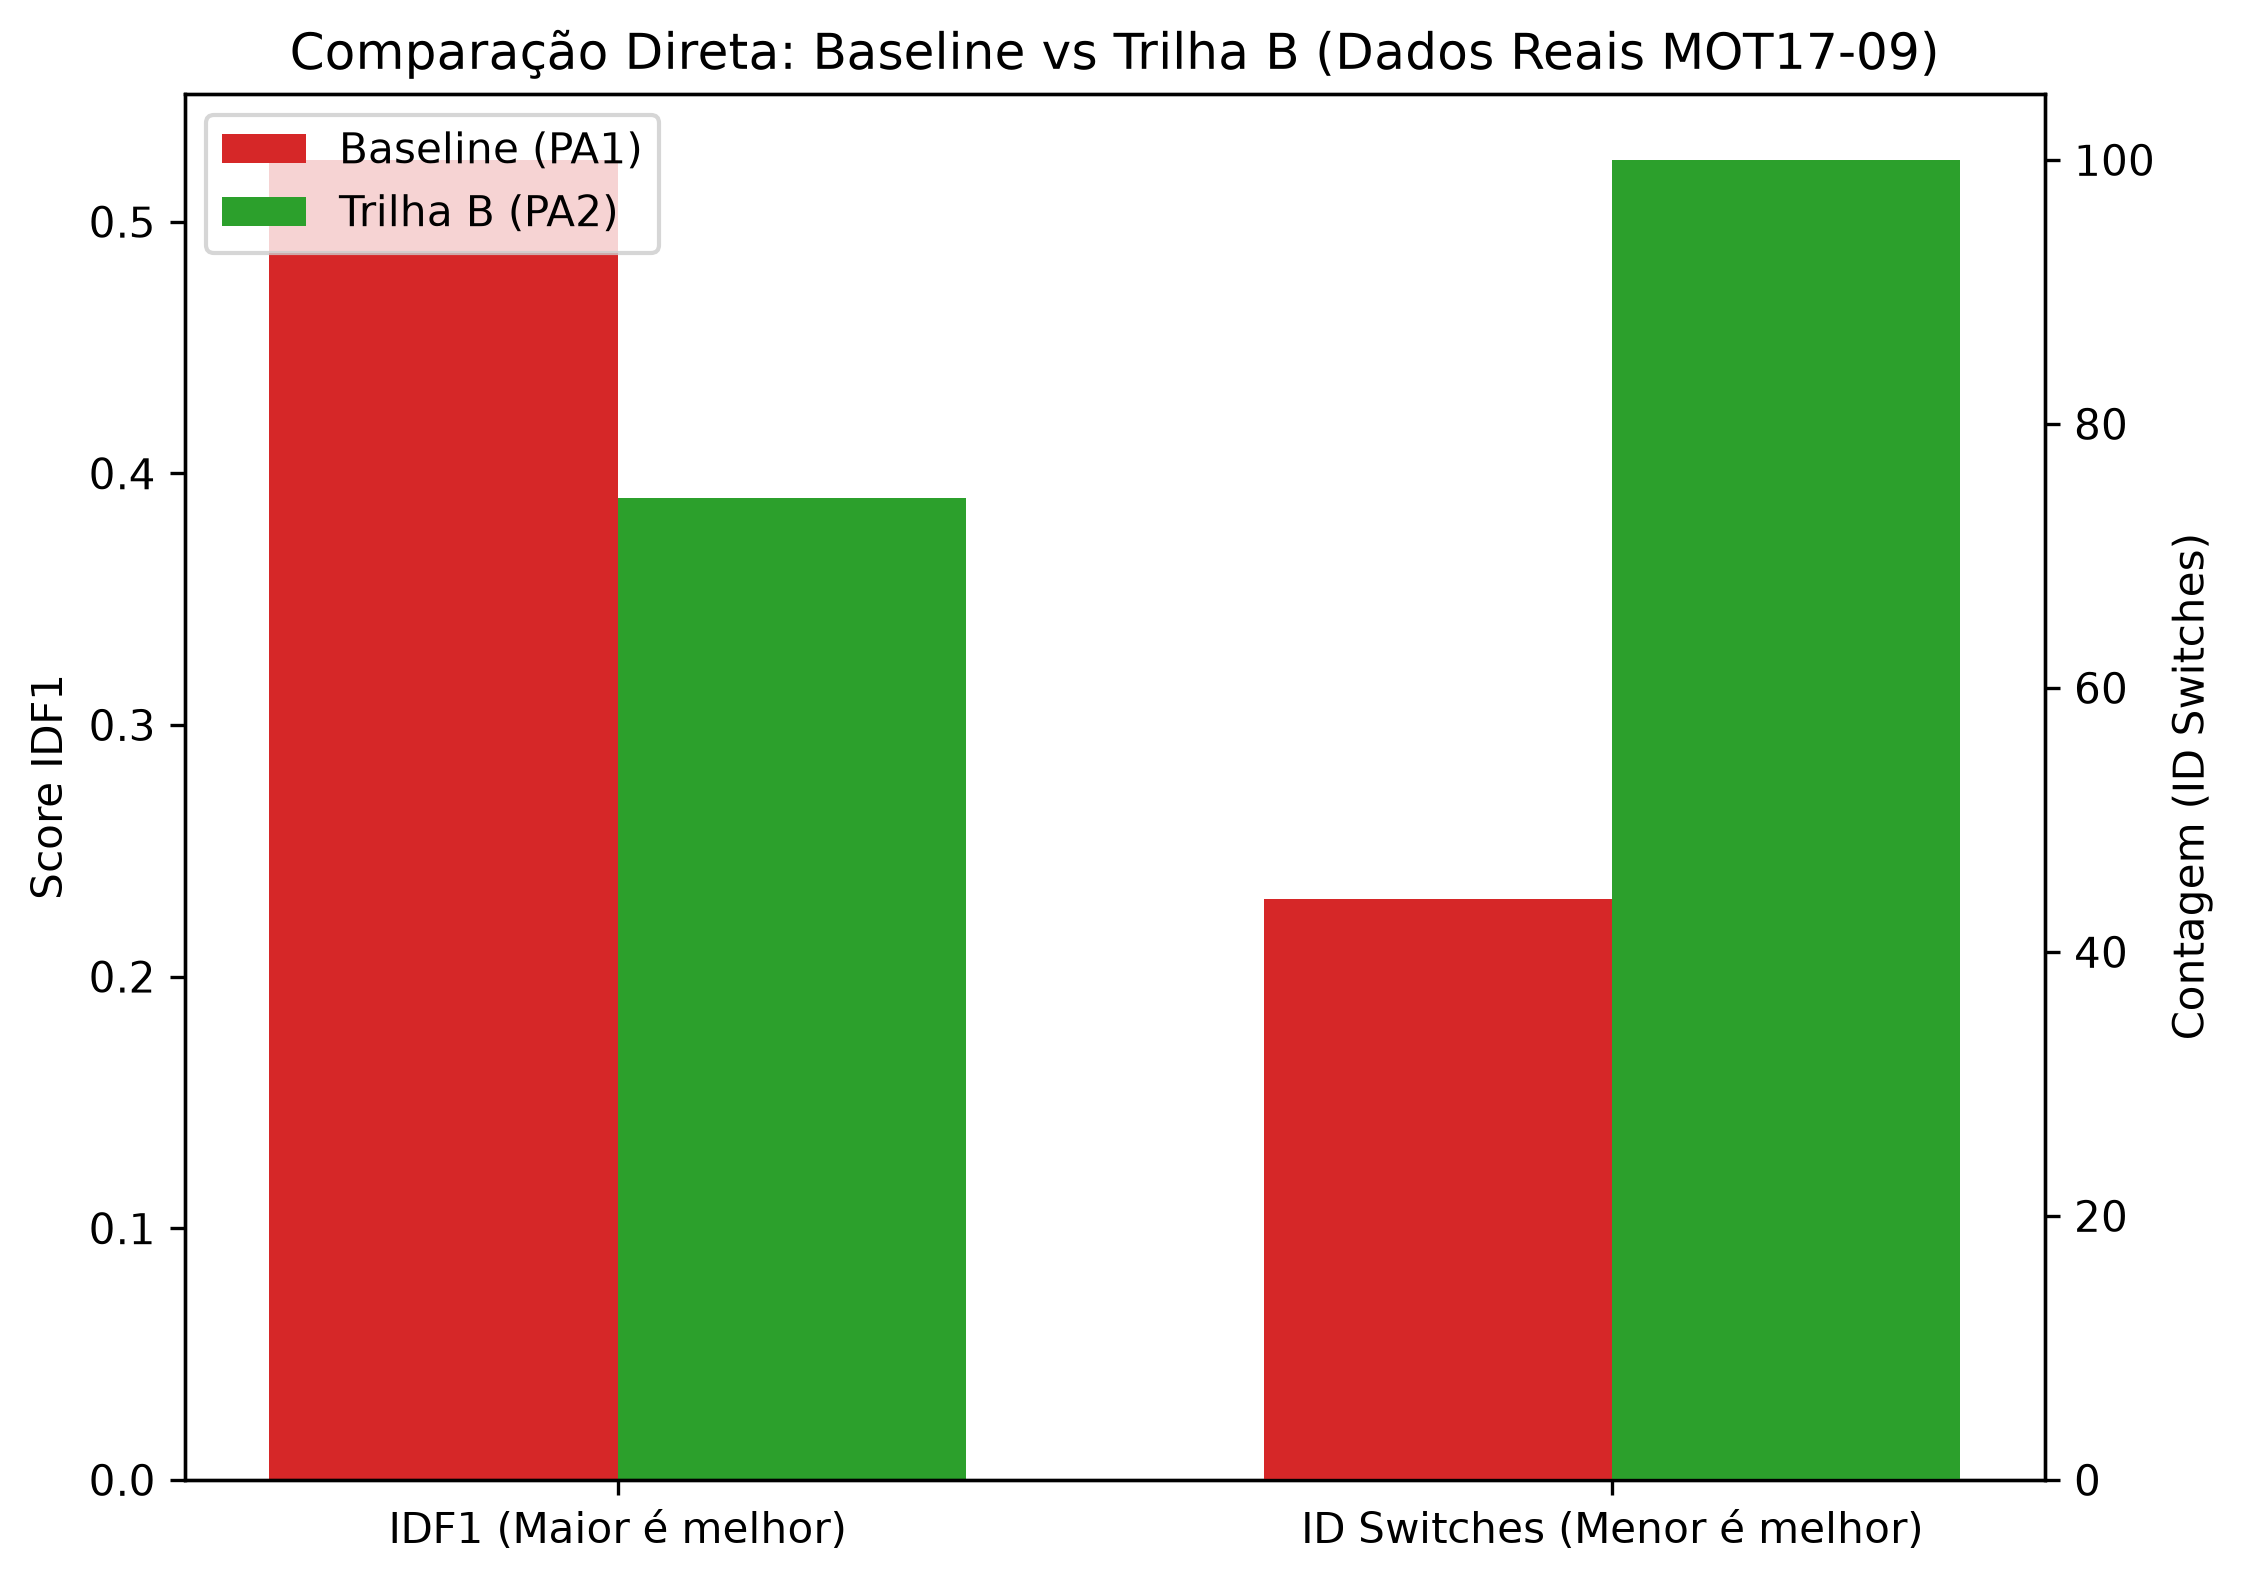
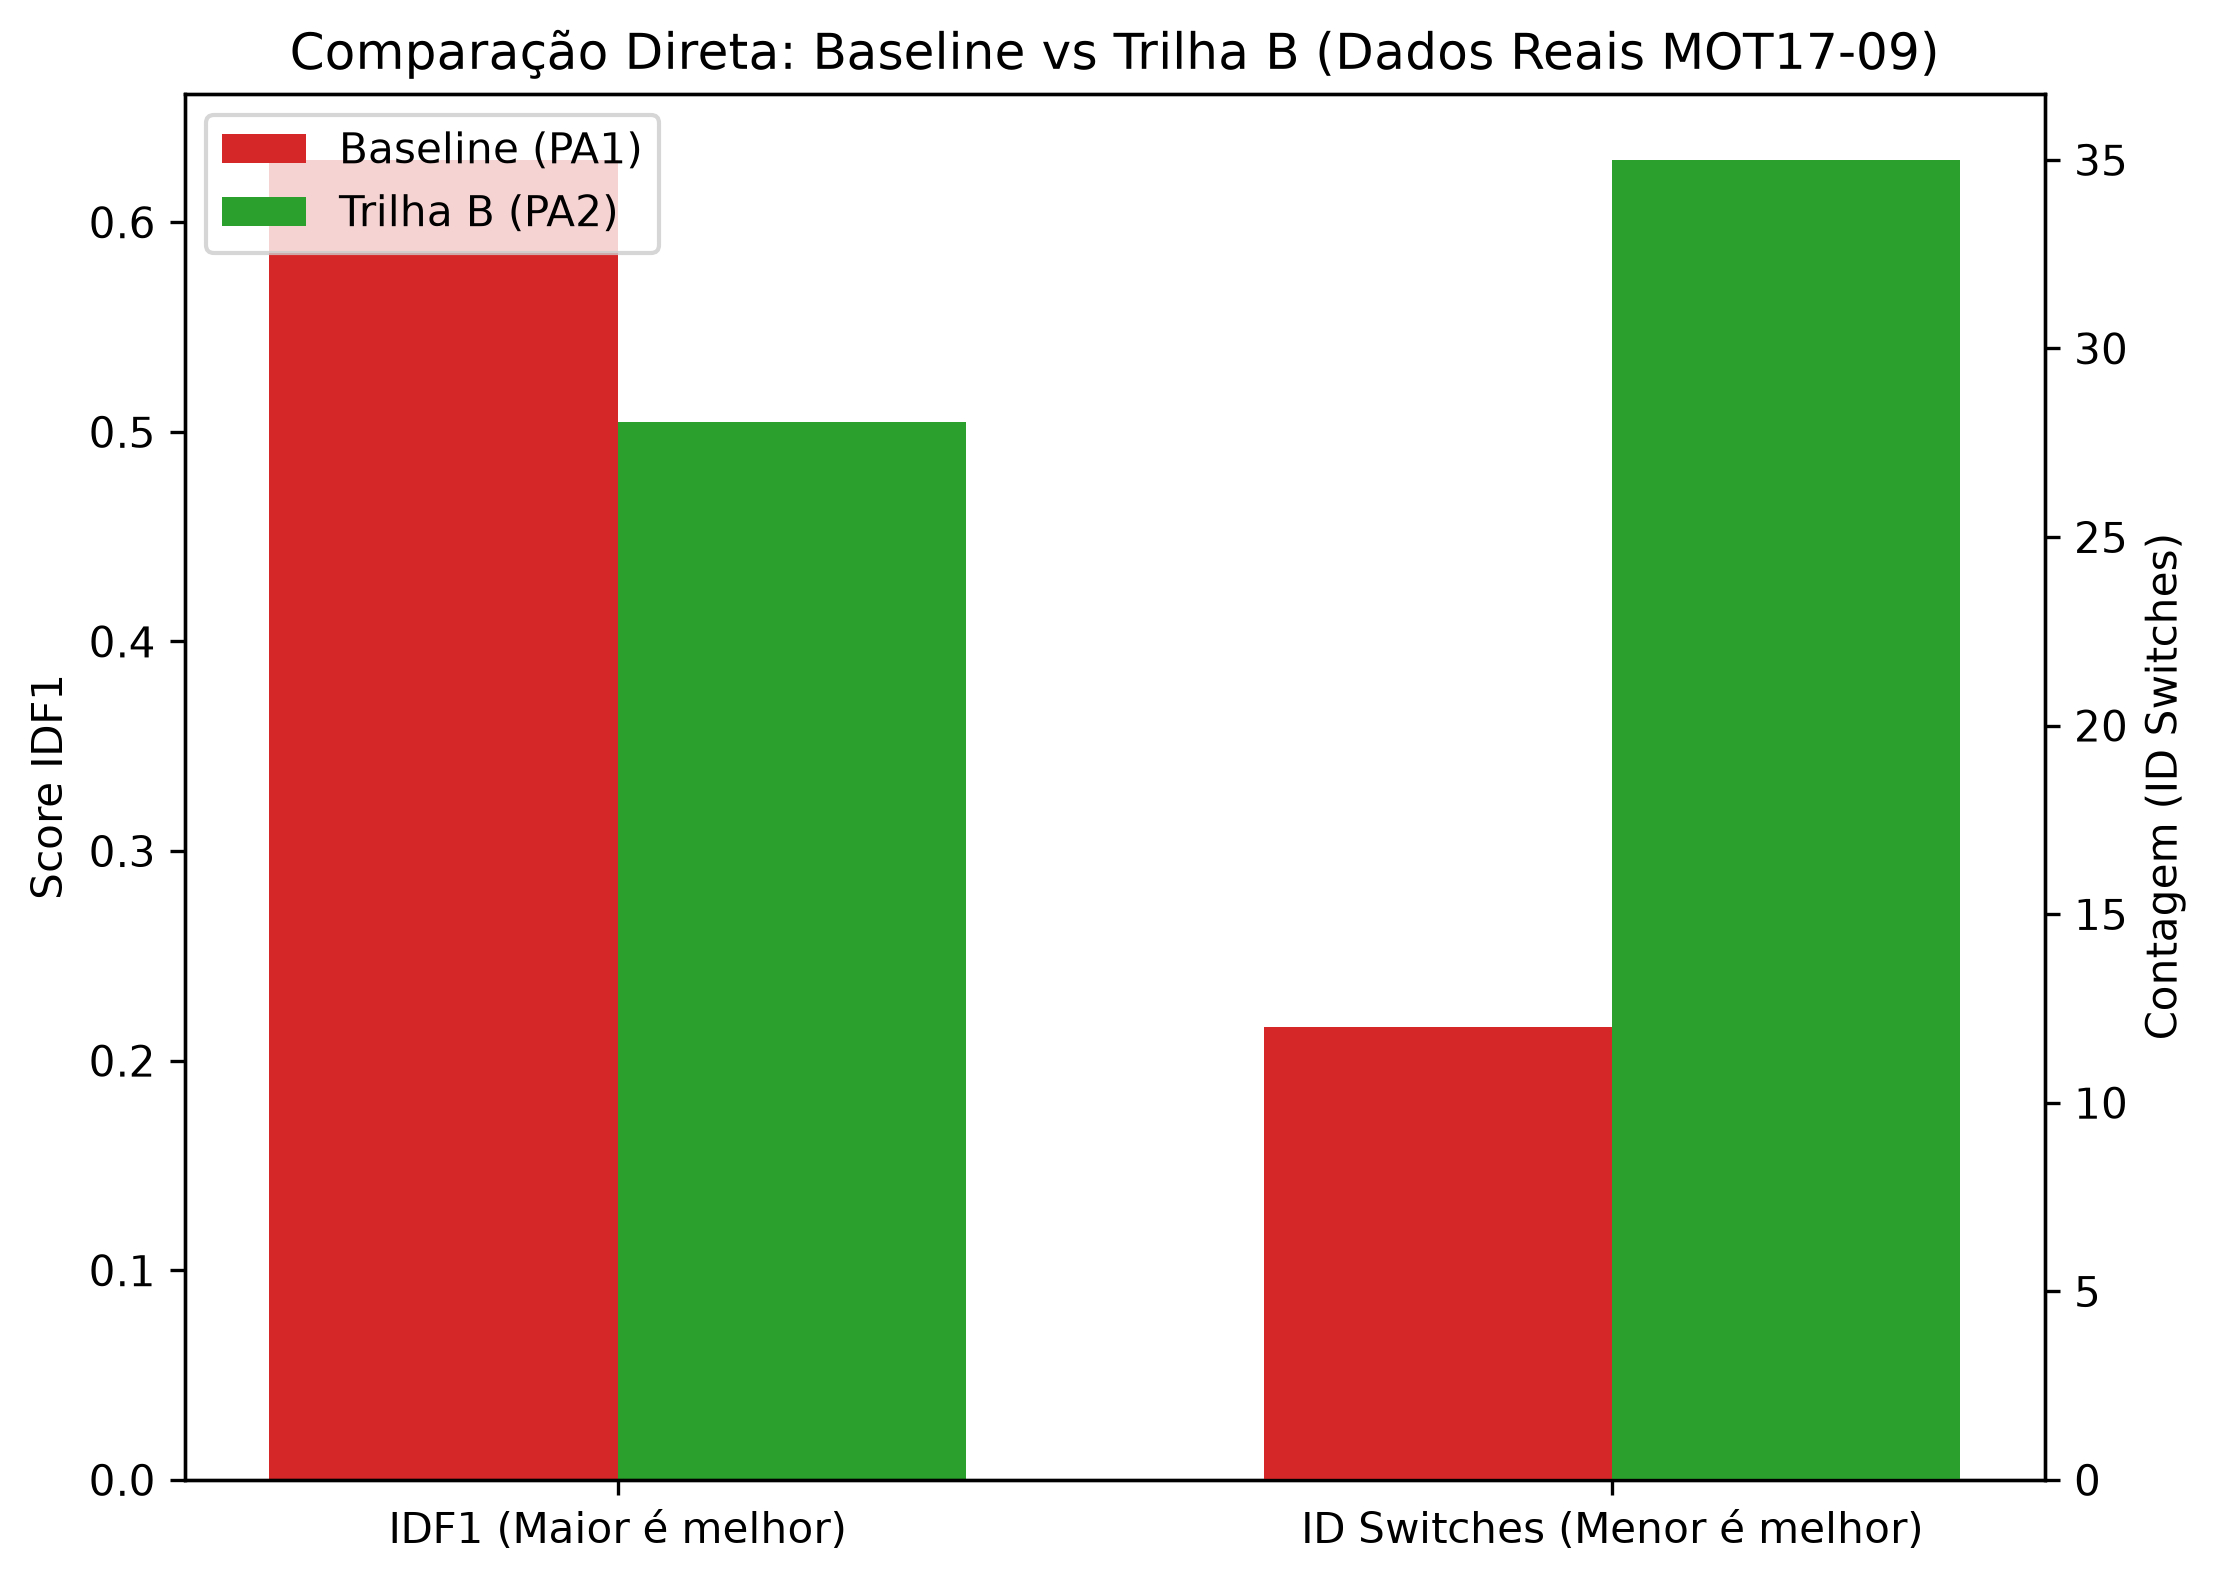
ultra commit: finaliza trabalho

diff --git a/src/part_4/failure_gallery.py b/src/part_4/failure_gallery.py
@@ -109,8 +109,15 @@ def run_failure_gallery():
     # Converte dicionário aninhado para DataFrame
     rows = []
     for f_num, tracks in infered_tracks_dict.items():
-        for tid, box in tracks.items():
-            rows.append({'frame': f_num, 'track_id': tid, 'bb_left': box[0], 'bb_top': box[1], 'bb_width': box[2], 'bb_height': box[3]})
+        for tid, state_dict in tracks.items():
+            rows.append({
+                'frame': f_num, 
+                'track_id': tid, 
+                'bb_left': state_dict['bb_left'], 
+                'bb_top': state_dict['bb_top'], 
+                'bb_width': state_dict['bb_width'], 
+                'bb_height': state_dict['bb_height']
+            })
     pred_df = pd.DataFrame(rows)
 
     # 3. Encontra Oclusões e Falhas de forma hardcoded (Diagnóstico Analítico)

diff --git a/src/part_2/compare_trackers_real.py b/src/part_2/compare_trackers_real.py
@@ -50,12 +50,13 @@ def run_real_comparison():
     print(" COMPARAÇÃO LADO A LADO: BASELINE vs TRILHA B (DADOS REAIS MOT17) ")
     print("==================================================================")
 
-    seq_name = "MOT17/train/MOT17-09-FRCNN"
+    seq_name = "MOT17/train/MOT17-11-FRCNN"
+    
     print(f"[*] Carregando dados reais da sequência {seq_name}...")
     ground_truth, dets_df = load_mot17_data(seq_name)
     
     # Para acelerar o teste, vamos usar apenas os primeiros 500 frames
-    max_frames = 500
+    max_frames = 200
     ground_truth = [gt for gt in ground_truth if gt['frame'] <= max_frames]
     dets_df = dets_df[dets_df['frame'] <= max_frames].copy()
     
